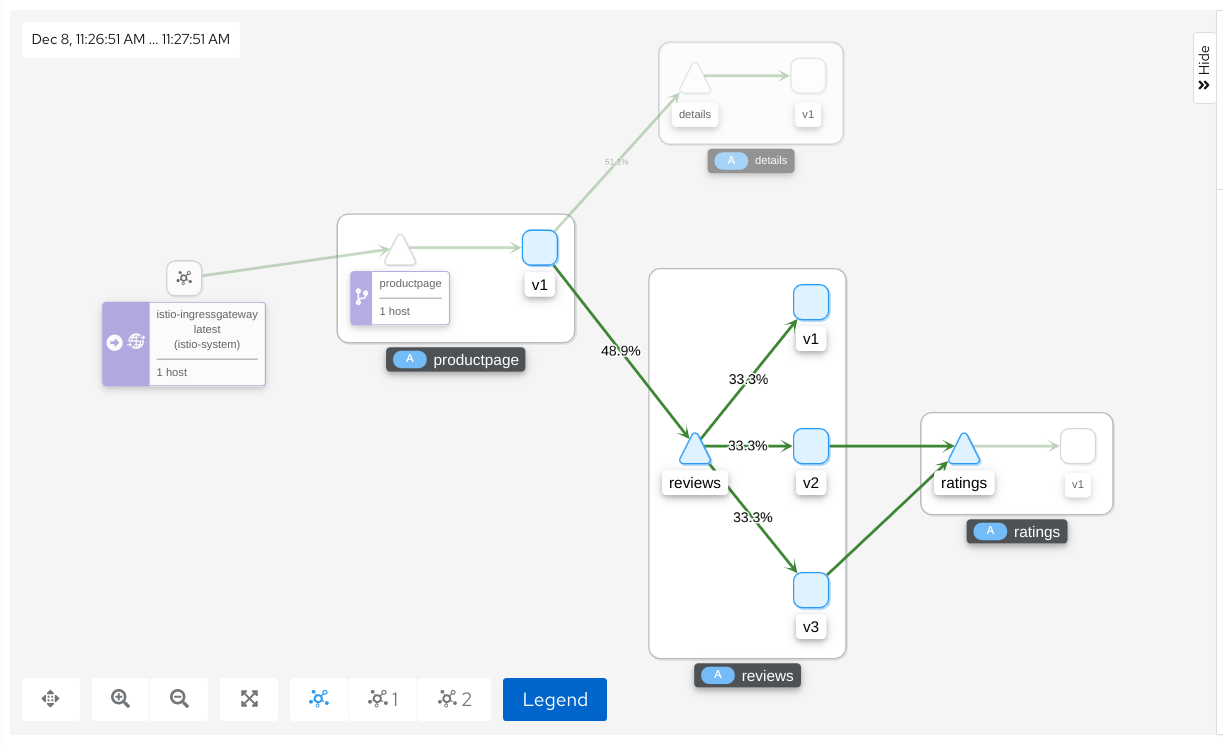
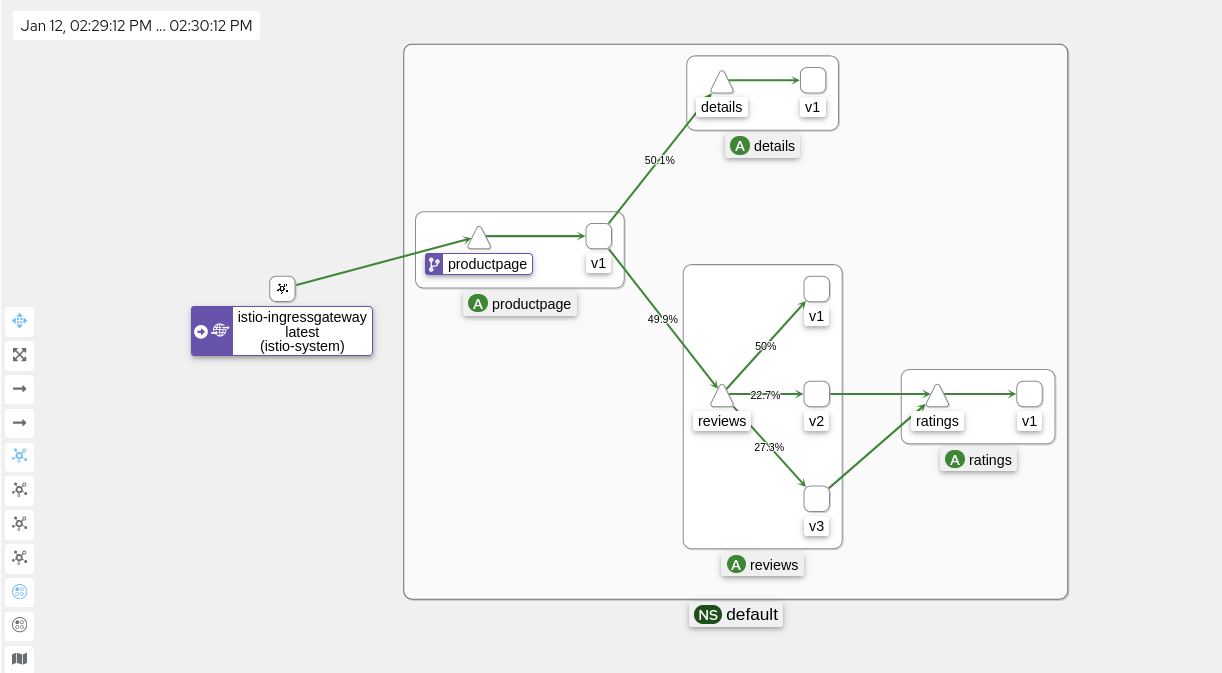
Update for new versions

diff --git a/docs/exercise1.md b/docs/exercise1.md
@@ -17,13 +17,13 @@ This will start an instance with 2 virtual CPUs, 4 GB om RAM, using Docker (Desk
 
 ### NOTE: bwLehrpool
 
-There may be a "leftover" (and damaged) Minikube instance that was present when the VMware image for the Linux environment was built.  This may cause problems. Enter the following command before you start this workshop:
+> There may be a "leftover" (and damaged) Minikube instance that was present when the VMware image for the Linux environment was built.  This may cause problems. Enter the following command before you start this workshop:
 
 ```
 minikube delete
 ```
 
-Output will be most likely something like this:
+> Output will look something like this:
 
 ```
 🔥  minikube" in docker wird gelöscht...
@@ -31,7 +31,7 @@ Output will be most likely something like this:
 💀  Removed all traces of the "minikube" cluster.
 ```
 
-Please be aware that this command will delete any existing Minikube cluster!
+> Please be aware that this command will delete any existing Minikube cluster!
 
 bwLehrpool has sufficient RAM to increase memory for Minikube, you can use this command instead:
 
@@ -45,21 +45,24 @@ which will assign 6 GB of RAM.
 
 ### 2 Install Istio
 
-This workshop is based on Istio version 1.12.0  (which was released in December 2021).
+This workshop is based on Istio version 1.16.1  (which was released in December 2022).
 
 Official instructions can be found [here](https://istio.io/latest/docs/setup/getting-started/).
 
 1. Create a new directory in your home directory, e.g. 'vs' and change into it
-2. Download Istio 1.12.0:
+
+    **Note: On bwLehrpool** change into the PERSISTENCE directory before continuing with the next step.
+
+2. Download Istio 1.16.1:
    
     ```
-	curl -L https://istio.io/downloadIstio | ISTIO_VERSION=1.12.0 TARGET_ARCH=x86_64 sh -
+	curl -L https://istio.io/downloadIstio | ISTIO_VERSION=1.16.1 TARGET_ARCH=x86_64 sh -
     ```
 
 3. Change into the Istio directory
    
     ```
-	cd istio-1.12.0
+	cd istio-1.16.1
     ```
 
 4. Install Istio:

diff --git a/docs/exercise2.md b/docs/exercise2.md
@@ -70,13 +70,15 @@ Note container count in the 'READY' column. It shows 2 of 2 (2/2). This is an in
 
 ### 2 Allow external access to application:
 
-Now that the Bookinfo services are up and running, you need to make the application accessible from outside of your Kubernetes cluster, e.g. from a browser. An Istio Gateway is used for this purpose.
+Now that the Bookinfo services are up and running, you need to make the application accessible from outside of your Kubernetes cluster, e.g. from a browser. In this lab we will not use NodePorts in the Kubernetes service definitions. Instead an Istio Gateway is used for this purpose.
 
 1. Create Istio gateway definition:
 
     ```
     kubectl apply -f samples/bookinfo/networking/bookinfo-gateway.yaml
     ```
+
+    We will see in detail what is created by this command in exercise 4 of this workshop.
 
 2. Create a LoadBalancer in Minikube: 
 
@@ -100,7 +102,7 @@ Now that the Bookinfo services are up and running, you need to make the applicat
     minikube tunnel
     ```
 
-    When requested, authenticate. **Keep this session open and active!**
+    When requested, authenticate with your root password. **Keep this session open and active!**
 
     Now repeat the command:
 
@@ -127,9 +129,9 @@ Now that the Bookinfo services are up and running, you need to make the applicat
     ![Bookinfo UI](../images/bookinfo_ui.png)
 
     Refresh the page several times and watch Book Reviews section: 
-    * no stars = v1
-    * black stars = v2
-    * red stars = v3
+    * no stars = reviews-v1
+    * black stars = reviews-v2
+    * red stars = reviews-v3
 
     **Keep your browser open on this page!**
 

diff --git a/docs/exercise4.md b/docs/exercise4.md
@@ -17,7 +17,7 @@ Now we want to look at it. It has 2 parts:
 
 #### Part 1: Gateway [&#10162;](https://istio.io/latest/docs/concepts/traffic-management/#gateways) 
 
-The gateway or ingress gateway is a form of load balancer that receives incoming HTTP or TCP connections. It configures exposed ports and protocols and contains the "host" name which is the domain main the gateway is supposed to answer.
+The gateway or ingress gateway is a form of load balancer that receives incoming HTTP or TCP connections. It configures exposed ports and protocols and contains the "host" name which is the Internet domain name that the gateway is supposed to accept request for.
 
 Our example:
 
@@ -38,7 +38,7 @@ spec:
     - "*"
 ```
 
-1. The selector "istio: ingressgateway" maps to the istio-ingressgateway deployment in the istio-system namespace.
+1. The selector "istio: ingressgateway" maps to the existing istio-ingressgateway deployment in the istio-system namespace. This was created when Istio was installed.
 2. The servers section specifies HTTP protocol on port 80 and what is called a "wildcard" host "*". This means that this gateway will direct HTTP requests (unencrypted) on any IP address or domain name. This is actually bad practice but helps keeping this exercise relatively simple.
 
 #### Part 2: Virtual Service [&#10162;](https://istio.io/latest/docs/concepts/traffic-management/#virtual-services) 

diff --git a/docs/exercise3.md b/docs/exercise3.md
@@ -47,7 +47,7 @@ Keep this running during this exercise.
 To start the Port Forwarding issue the following command in a seperate session (and keep it running):
 
 ```
-kubectl port-forward service/tracing  8008:80 -n istio-system 
+kubectl port-forward service/tracing 8008:80 -n istio-system 
 ```
 
 1. In a browser open the Jaeger UI at [http://localhost:8008/](http://localhost:8008/).
@@ -89,7 +89,7 @@ When you are finished with Prometheus, terminate the Port Forwarding (Linux: Ctl
 To start the Port Forwarding issue the following command in a seperate session (and keep it running):
 
 ```
-kubectl port-forward service/grafana  3000:3000 -n istio-system 
+kubectl port-forward service/grafana 3000:3000 -n istio-system 
 ```
 
 1. In a browser open the Grafana UI at [http://localhost:3000/](http://localhost:3000/)
@@ -116,7 +116,7 @@ kubectl port-forward service/kiali 20001:20001 -n istio-system
 ```
 
 1. In a browser open the Kiali dashboard at [http://localhost:20001/](http://localhost:20001/)
-2. Click on the 'Graph' tab, slect the 'default' namespace, and in the 'Display' pulldown, select 'Traffic Distribution'
+2. Click on the 'Graph' tab (1), select the 'default' namespace (2), select 'Versioned app graph' (3),  and in the 'Display' pulldown, select 'Traffic Distribution' (4):
 
     ![Kiali UI](../images/kiali1.png)
 

diff --git a/index.md b/index.md
@@ -9,9 +9,9 @@ Kubernetes helps managing microservice based applications through self-healing (
 
 In this workshop, you will learn how to install and use Istio alongside microservices using the Istio sample application [Bookinfo](https://istio.io/latest/docs/examples/bookinfo/). 
 
-[Minikube](https://minikube.sigs.k8s.io/docs/) will be used to run Kubernetes on your own workstation.
-
 ![Bookinfo w/o Istio](images/bookinfo_no_istio.png)
+
+[Minikube](https://minikube.sigs.k8s.io/docs/) will be used to run Kubernetes on your own workstation.
 
 ## Objectives 
 
@@ -37,11 +37,9 @@ These are the exercises of this workshop, go through all of them in sequence:
 
 This hands-on workshop was created and tested with
 
-* Minikube v1.24.0 (includes Kubernetes v1.22.3) 
-* Istio v1.12.0
+* Minikube v1.28.0 (includes Kubernetes v1.25.3) 
+* Istio v1.16.1
 
 ## Credits
 
 This workshop is based in part on the Istio documentation [Learn Microservices using Kubernetes and Istio](https://istio.io/latest/docs/examples/microservices-istio/) and on my own [Istio Hands-on workshop](https://harald-u.github.io/istio-handson/).
-
-&copy; Harald Uebele, 07.12.2021
